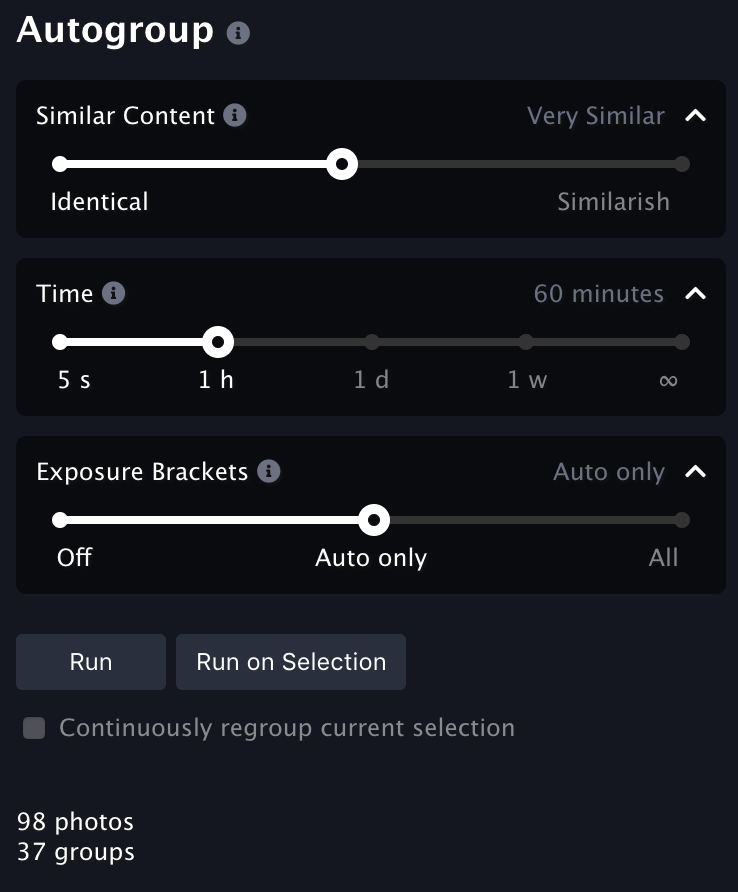
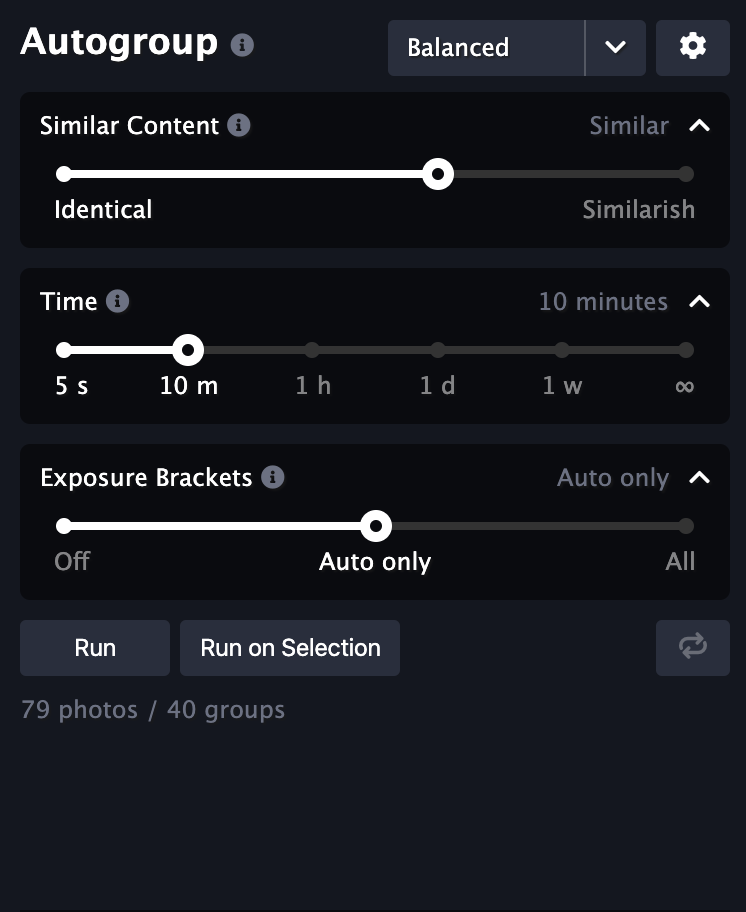
feat: update learning optyx with workflow data

diff --git a/content/tutorials/learning-optyx.md b/content/tutorials/learning-optyx.md
@@ -31,6 +31,15 @@ Autogroup creates photo groups based on content similarity with limits based on 
 
 <div class="clearfix"></div>
 
+### Autogroup Profiles
+
+Once you've put together a set of slider combinations that you like, you can save them in an autogroup profile. Open the profiles modal by clicking the settings cog in the top right corner of Autogroup and create as many custom profiles as you need.
+
+<figure>
+<img src="../assets/autogroup-profiles.png" style="height: 400px;"/>
+<figcaption>Autogroup profile settings in the Optyx app</figcaption>
+</figure>
+
 ## Autocull
 
 Autocull processes each group and tags the best photo. Autocull profiles can be configured to tag photos based on various rules. Default rating-based and color-based profiles are pre-configured, but custom profiles can be added and customized to fit your specific workflow.
@@ -44,12 +53,26 @@ The Autocull edit modal allows you to configure any set of conditions and action
 
 ### Conditions
 
+#### Selective Conditions
+
+Selective conditions will have exactly one match within each group if the condition is applicable to the photo. For example, even if every photo is blurry in a group, whichever is _least_ blurry will receive the "sharpest" label. Selective conditions are helpful for selecting photos within a group.
+
 1. **Best Overall** - The best overall photo when all features are considered.
 1. **Best Faces** - The photo with the overall best faces, the happiest, sharpest, and most eyes open.
 1. **Happiest Faces** - The photo with the happiest faces, regardless of sharpness or squinting eyes.
 1. **Sharpest** - The photo with the sharpest edges.
 1. **Solo Group** - A photo that is the only photo in its group. When a photo is the only photo in the group, this is the only condition that will match.
 1. **Unmatched** - A photo that does not match any other condition. Used as the default handling mechanism.
+
+#### Absolute Conditions
+
+Absolute conditions apply to every photo regardless of its group status. For example, if every photo in a group has blurry faces, each will receive the "Poor Focus" label. Absolute conditions can be helpful for eliminating entire photo groups.
+
+**NOTE: As of Optyx v1.3, only photos with obvious faces are candidates for absolute conditions.**
+
+1. **Sharp Focus** - Any photo that has all subjects in sharp focus.
+1. **Adequate Focus** - Any photo that has at least one subject in sharp focus or a majority of subjects with acceptable focus.
+1. **Poor Focus** - Any photo that has a majority of subjects out of focus and no subjects in sharp focus.
 
 ### Actions
 
@@ -58,6 +81,26 @@ The Autocull edit modal allows you to configure any set of conditions and action
 1. **Set Management** - Sets the [management method](#management-method) to the specified method.
 1. **Add Management Bit** - Mutates the [management method](#management-method) to add the specified property.
 1. **Remove Management Bit** - Mutates the [management method](#management-method) to remove the specified property.
+
+<a name="workflows"></a>
+
+## Workflows
+
+Once you've built out autogroup and autocull profiles that you like, you can combine them into a **Workflow**. A workflow will run your prefered autogroup profile followed by your preferred autocull profile for total one-click culling.
+
+<div style="display: flex; flex-direction: row">
+
+<figure style="width: 60%; display: inline-block">
+<img src="../assets/workflow-profiles.png"/>
+<figcaption>Workflow settings in the Optyx app</figcaption>
+</figure>
+
+<figure style="width: 30%; display: inline-block; margin-left: 5%;">
+<img src="../assets/run-workflow-button.png"/>
+<figcaption>Run your workflow with a single click</figcaption>
+</figure>
+
+</div>
 
 <a name="management-method"></a>
 
